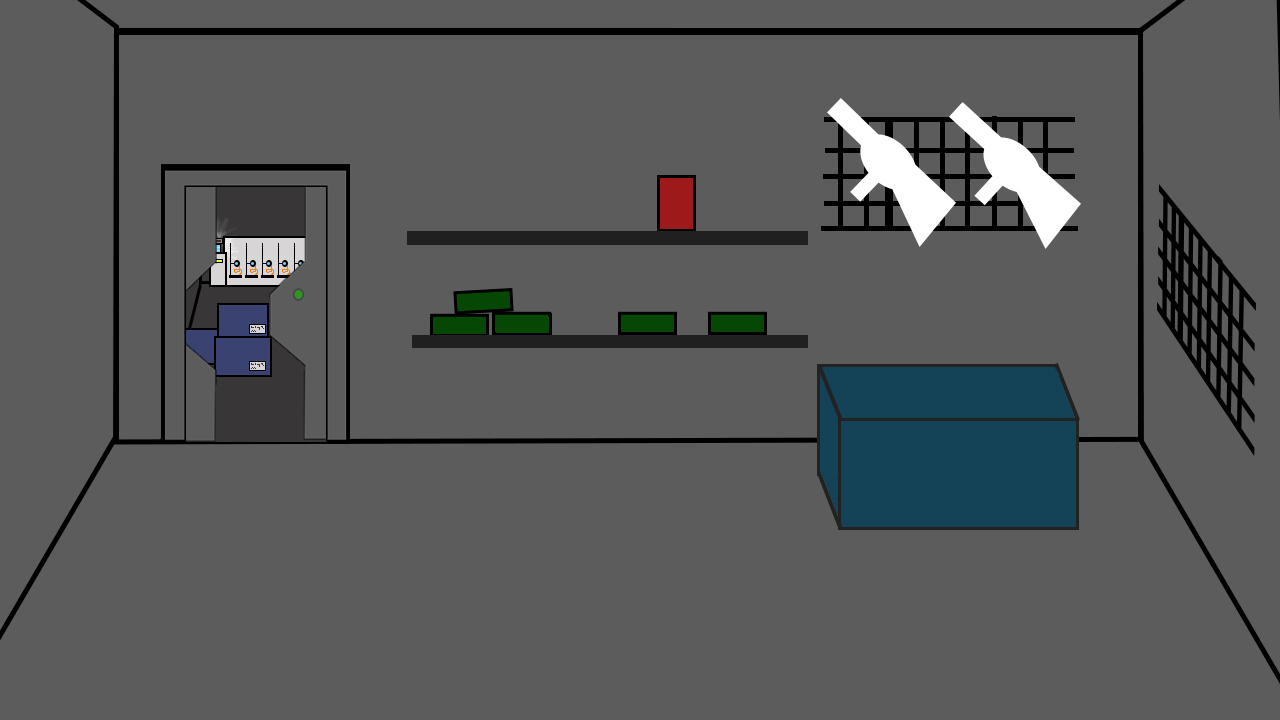
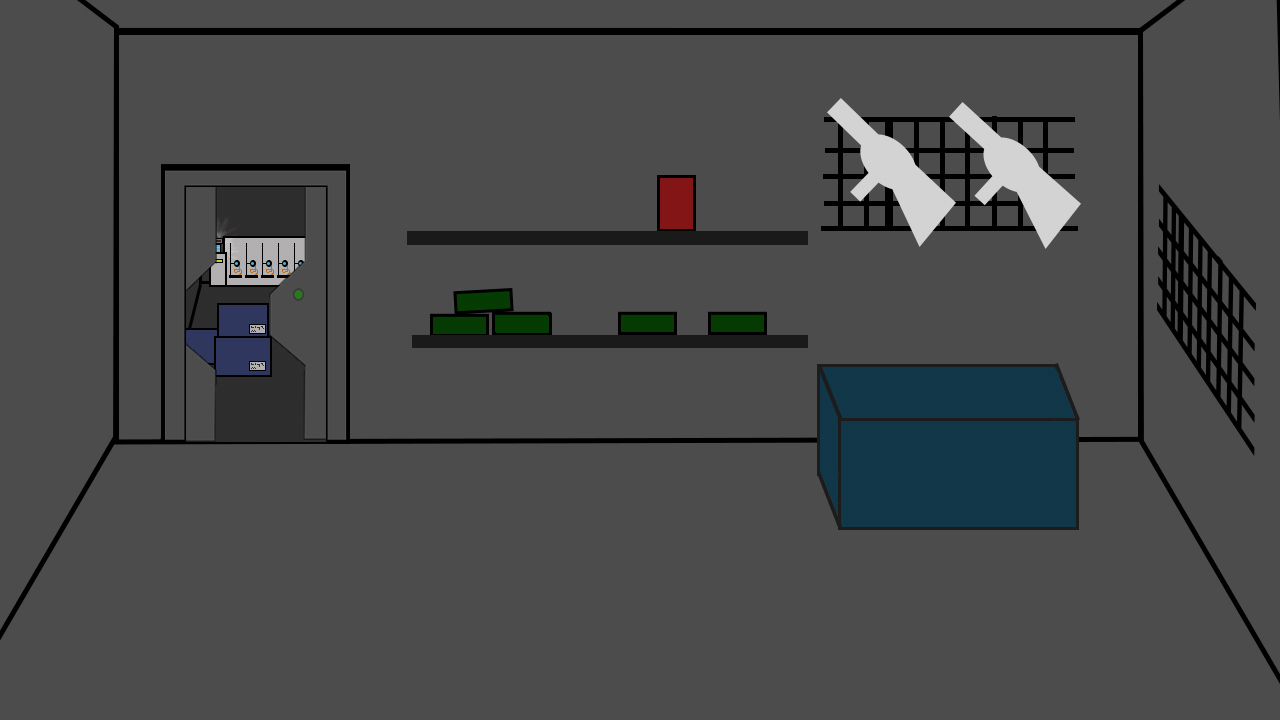
new BG and generator art for scene1, new art for 6b, 6b fully functional
also new BG for 8a, and slight tweaks to scene 9 dialogue

diff --git a/SpaceGame/Assets/Scripts/Scene6bDialogue.cs b/SpaceGame/Assets/Scripts/Scene6bDialogue.cs
@@ -14,9 +14,9 @@ public class Scene6bDialogue : MonoBehaviour {
 		public Text Char3name;
 		public Text Char3speech;
         public GameObject DialogueDisplay;
-        public GameObject ArtChar1;
-       //public GameObject ArtChar1b;
-       //public GameObject ArtChar2;
+        public GameObject CapArt_01;
+		public GameObject CapArt_02;
+		public GameObject CapArt_03;
         public GameObject ArtBG1;
         public GameObject Choice1a;               // leave
         public GameObject Choice1b;              // investigate body
@@ -33,7 +33,9 @@ public class Scene6bDialogue : MonoBehaviour {
 // initial visibility settings. Any new images or buttons need to also be SetActive(false);
 void Start(){  
         DialogueDisplay.SetActive(false);
-        ArtChar1.SetActive(false);
+        CapArt_01.SetActive(true);
+		CapArt_02.SetActive(false);
+		CapArt_03.SetActive(false);
         ArtBG1.SetActive(true);
         Choice1a.SetActive(false);
         Choice1b.SetActive(false);
@@ -63,7 +65,6 @@ public void next(){
                 // AudioSource.Play();
         }
         else if (primeInt == 2){
-            //    ArtChar1.SetActive(true);
                 DialogueDisplay.SetActive(true);
                 Char1name.text = "";
                 Char1speech.text = "";
@@ -119,6 +120,8 @@ public void next(){
                 Char3speech.text = "";
         }
        else if (primeInt == 9){
+				CapArt_01.SetActive(false);
+				CapArt_02.SetActive(true);
                 Char1name.text = "";
                 Char1speech.text = "";
                 Char2name.text = "...";
@@ -198,6 +201,8 @@ public void next(){
                 allowSpace = true;
         }
 		public void Choice1cFunct(){                      //choice 1c: take gun?
+				CapArt_02.SetActive(false);
+				CapArt_03.SetActive(true);
                 Char1name.text = "YOU";
                 Char1speech.text = "Whoever did this is still out there. I’ll have a better chance of defending myself with this.";
                 Char2name.text = "";
@@ -224,7 +229,9 @@ public void next(){
                 allowSpace = true;
         }
 		public void Choice1eFunct(){                      //choice 1e: TAKE GUN!
-                Char1name.text = "YOU";
+                CapArt_02.SetActive(false);
+				CapArt_03.SetActive(true);
+				Char1name.text = "YOU";
                 Char1speech.text = "I guess I’ll be safer this way, at least.";
                 Char2name.text = "";
                 Char2speech.text = "";

diff --git a/SpaceGame/Assets/Scripts/Scene9Dialogue.cs b/SpaceGame/Assets/Scripts/Scene9Dialogue.cs
@@ -57,14 +57,13 @@ public class Scene9Dialogue : MonoBehaviour {
             // AudioSource.Play();
         }
         else if (primeInt == 2){
-            ArtChar1.SetActive(true);
             DialogueDisplay.SetActive(true);
             Char1name.text = "";
             Char1speech.text = "";
-            Char2name.text = "";
-            Char2speech.text = "";
-            Char3name.text = "H.O.R.I.Z.O.N.";
-            Char3speech.text = "Please reassemble the battery array.";
+            Char2name.text = "...";
+            Char2speech.text = "You return to the generator room, the boxy machine looming before you.";
+            Char3name.text = "";
+            Char3speech.text = "";
         }
         else if (primeInt ==3){
             Char1name.text = "";
@@ -72,7 +71,7 @@ public class Scene9Dialogue : MonoBehaviour {
             Char2name.text = "";
             Char2speech.text = "";
             Char3name.text = "H.O.R.I.Z.O.N.";
-            Char3speech.text = "Attach the three batteries and reinstall.";
+            Char3speech.text = "Directive: Insert battery array.";
             //gameHandler.AddPlayerStat(1);
         }
         else if (primeInt == 4){
